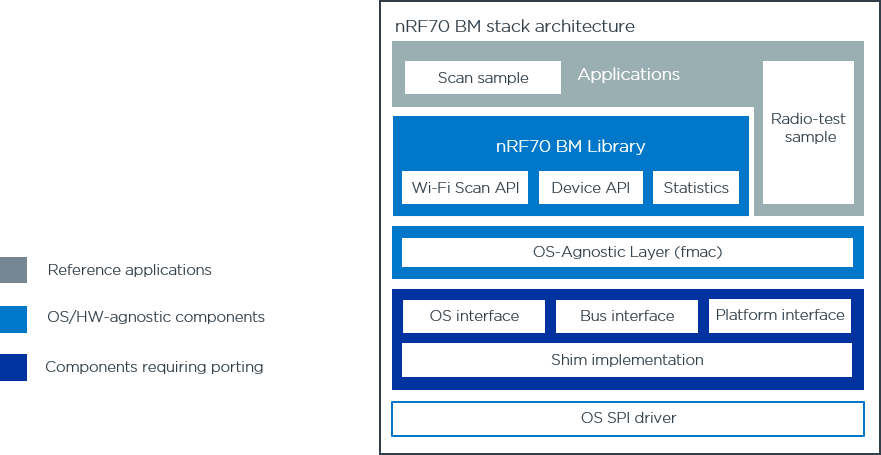
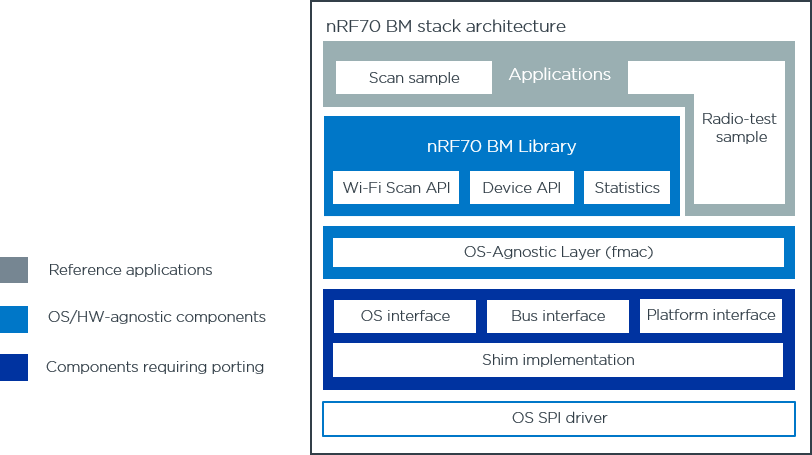
nrf70_bm_lib: docs: reorganize and improve content
Move the essentials of the shim layer under
architecture. Minor improvements otherwise.
Slightly improve architecture diagram.

diff --git a/nrf70_bm_lib/docs/source/nrf70_bm_lib.rst b/nrf70_bm_lib/docs/source/nrf70_bm_lib.rst
@@ -1,15 +1,15 @@
 .. _nrf70_bm_lib:
 
 Introduction
-============
+############
 
 nRF70 Bare Metal (BM) library is a library that provides a set of APIs to interact with the nRF70 Series of ICs.
 The library is not dependent on any RTOS. As such it may be used in a bare metal environment, as well as a
-third-party RTOS environment (not nRF Connect SDK). This allows developers to easily port the library to any
-platform of their choice.
+third-party RTOS environment (not Zephyr RTOS or nRF Connect SDK). This allows developers to easily port the
+library to any platform of their choice.
 
 Architecture
-============
+############
 
 The software architecture of the nRF70 BM library is presented in the following figure.
 
@@ -24,11 +24,13 @@ The software architecture of the nRF70 BM library is presented in the following 
 OS-agnostic library
 *******************
 
-The library exposes the following functionality to the application
+The library exposes the following functionality to the user application
 
 * nRF70 Series device initialization and de-initialization
 * Wi-Fi scan, through a single-function API supporting a wide list of scan configuration parameters
 * Obtaining statistics from the nRF70 Series device
+
+The library is described in a single public-API definition header file ``nrf70_bm_lib.h``.
 
 Being fully RTOS-agnostic, the BM library is portable to any bare-metal or OS environment.
 
@@ -44,7 +46,55 @@ of the nRF70 BM library.
 nRF70 Shim layer
 ****************
 
-The nRF70 shim layer contains a reference implementation for the Zephyr RTOS. 
+The nRF70 shim layer contains a reference implementation of the bare metal library for the Zephyr RTOS
+and nRF Connect SDK. The reference implementation serves two main purposes
+
+* It allows users to easily build, test, and evaluate the nRF70 BM library on Nordic evaluation boards
+* It can be used as a guide for porting the library to other platforms and OS environments.
+
+Shim layer structure
+====================
+
+This reference implementation is structured in multiple source directories as follows:
+
+.. code-block:: none
+
+    the nRF70 Series_zephyr_shim/     # Zephyr shim for the nRF70 Series, reference for third-party host platforms
+      include/             # Include directory
+      source/              # Source directory
+        bus/               # Bus interface
+        os/                # OS shim
+        platform/          # Platform specific files
+      CMakeLists.txt       # CMake build file```
+
+The key components of the Zephyr shim reference implementation are:
+
+* ``os``: Contains the OS shim implementation for Zephyr.
+* ``bus``: Contains the bus (data transfer) interface implementation for SPI and QSPI.
+* ``platform``: Contains the platform specific files, and has an RPU (Radio Processing Unit) abstraction layer that interacts with the nRF70 Series device,
+  either through QSPI or SPI. The platform also uses Zephyr GPIO APIs to manage GPIO pins of the nRF70 Series.
 
 
+Design essentials
+#################
+
+nRF70 BM library threading model
+********************************
+
+The nRF70 Series BM library and driver use a simple threading model to interact with the nRF70 Series device.
+The library driver code execute in the following contexts:"
+
+* *Application (thread) context*: Regular application thread context for invoking the nRF70 BM library APIs to to interact with the nRF70 Series device.
+  All API functions execute fully in thread context (i.e. there is no tasklet offload) running to completion.
+
+* *Interrupt context*: For handling interrupts from the nRF70 Series. Interrupt service routines are used to schedule tasklets to offload the nRF70 Series event handling.
+  The nRF70 device requires a single  `host IRQ` interrupt line to raise interrupts on the host platform, when the device needs to report an event. A GPIO pin needs to be configured as a `host IRQ` at the host MCU.
+  The interrupt service routine reads the event coming from the nRF70 Series device and schedules a tasklet to handle the event.
+
+* *Tasklet context*: Tasklets perform the actual work of interacting with the nRF70, processing events coming from the device (offloaded tasks from ISRs)
+  Only event receive operations are performned in tasklets. Essentially, event receive tasklets read the event data coming from the nRF70 Series device and hand them over to the registered FMAC callbacks.
+  An example of such operation is the processing of incoming AP scan results after a scan command has been issued. 
+
+  .. note::
+     In the reference implementation for Zephyr tasklet work is offloaded to Zephyr kernel workqueues.
 

diff --git a/nrf70_bm_lib/docs/source/nrf70_bm_porting_guide.rst b/nrf70_bm_lib/docs/source/nrf70_bm_porting_guide.rst
@@ -1,68 +1,30 @@
 .. _nrf70_bm_porting_guide:
 
 nRF70 Series BM driver Porting Guide
-====================================
+####################################
+
 The nRF70 Series BM driver is designed to be portable across different platforms.
-This guide provides an overview of the nRF70 Series BM library and the steps to port the library to a new platform.
+This guide provides an overview of the steps required to port the library to a new platform or OS environment.
 
-nRF70 Series driver threading model
-***********************************
-
-The nRF70 Series BM driver uses a simple threading model to interact with the nRF70 Series device.
-The driver code executes in the following contexts:"
-
-* *Interrupt context*: For handling interrupts from the nRF70 Series. Interrupt service routines are used to schedule tasklets to offload the nRF70 Series event handling.
-  The nRF70 device requires a single  `host IRQ` interrupt line to raise interrupts on the host platform, when the device needs to report an event. A GPIO pin needs to be configured as a `host IRQ` at the host MCU.
-  The interrupt service routine reads the event coming from the nRF70 Series device and schedules a tasklet to handle the event.
-* *Tasklet context*: Tasklets perform the actual work of interacting with the nRF70 Series device
-  - processing events coming from the nRF70 device
-  - writing and submitting commands to the nRF70 device
-  RX tasklet: The RX tasklet reads the event data from the nRF70 Series and hands over to the FMAC callbacks.
-* *Application thread context*: The application thread context is responsible for calling the nRF70 Series BM driver APIs to interact with the nRF70 Series device.
-
-Zephyr shim reference
-**********************
-
-
-The `the nRF70 Series_zephyr_shim` directory contains a reference implementation for Zephyr.
-This reference implementation can be used as a guide to port the library to other platforms.
-This reference implementation is structured in multiple source directories as follows :
-
-.. code-block:: none
-
-    the nRF70 Series_zephyr_shim/     # Zephyr shim for the nRF70 Series, reference for third-party host platforms
-      include/             # Include directory
-      source/              # Source directory
-        bus/               # Bus interface
-        os/                # OS shim
-        platform/          # Platform specific files
-      CMakeLists.txt       # CMake build file```
-
-The key components of the Zephyr shim reference implementation are:
-
-* *os*: Contains the OS shim implementation for Zephyr.
-* *bus*: Contains the bus interface implementation for SPI.
-* *platform*: Contains the platform specific files, and has an RPU (Radio Processing Unit) abstraction layer that interacts with the nRF70 Series
-  either through QSPI or SPI. The platform also uses Zephyr GPIO APIs to manage GPIO pins of the nRF70 Series.
 
 Zephyr functionality used in the reference implementation:
 **********************************************************
 
 The reference implementation of the BM Driver for the Zephyr RTOS uses build-time tools as well as standard OS primitives; these elements require porting effort when integrating the driver to a third-party (non-Zephyr) platform.
 
-* OS primitives: The reference implementation uses the following Zephyr OS primitives:
+* *OS primitives*: The reference implementation uses the following Zephyr OS primitives:
 
     - Workqueue: Used to schedule work or delayed work to be done.
     - Heap: Used to allocate memory for the nRF70 Series.
     - Lists: Used to manage the list of tasks to be done in the context of the nRF70 Series.
     - Sleep/Delay: Used to manage the sleep and delay for the nRF70 Series.
     - Semaphore: Used to manage the synchronization between the nRF70 Series and the host MCU.
-* Driver model: The reference implementation uses the Zephyr driver model to manage the nRF70 Series device.
+* *Driver model*: The reference implementation uses the Zephyr driver model to manage the nRF70 Series device.
 
     - SPI: Uses Zephyr's SPI driver to communicate with the nRF70 Series over SPI.
     - GPIO: Used to manage the host IRQ GPIO pin of the nRF70 Series.
 
-* Build time tools: The reference implementation uses the following build-time tools:
+* *Build time tools*: The reference implementation uses the following build-time tools:
 
     - DTS: Used to define the GPIO pins of the nRF70 Series.
     - Kconfig: Used to define the configuration options for the nRF70 Series driver.
